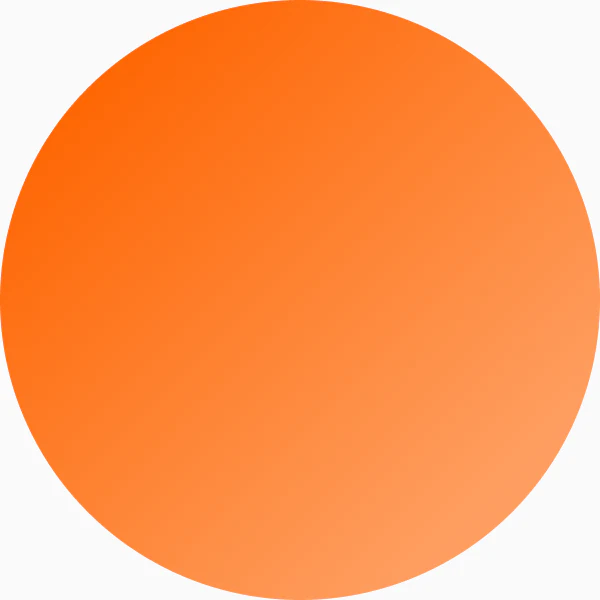
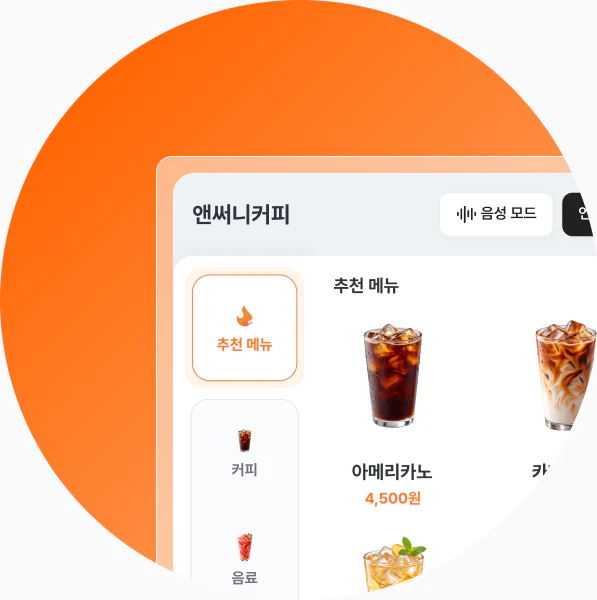
리스트 설명글을 시안대로 되돌린다 — 1번 항목에 5번 문구가 들어가 있었다
키오스크 썸네일이 주황 원에서 주문 화면 목업으로 바뀌어 다시 뽑았고,
디자인 토큰 태그 AI → AI 자동화, 인덱스 골프 태그 개인 작업 → 개인 스터디.
설명글은 1·2·3·5번이 시안과 달라 네 항목 모두 시안 문구로 맞췄다.

diff --git a/index.html b/index.html
@@ -79,8 +79,8 @@
             <div class="work-item__head">
               <h3 class="work-item__title"><a href="./case-ai-agent.html">AI 에이전트 단절된 작업 흐름 하나의 경험으로 재설계</a></h3>
             <p class="work-item__desc">
-              Base → Semantic 2-tier 컬러 토큰과 Variables 라이브러리 구축<br>
-              Design.md 단일 명세로 디자인·개발이 같은 문서를 참조하는 협업 기준 수립
+              AI 답변과 원문 근거를 연결해 응답 안에서 검증이 끝나는 구조 설계<br>
+              검증 포기율 73% 해소, GS인증 1등급으로 공공조달 요건 충족
             </p>
               <div class="work-item__tags">
                 <span class="chip chip--tag">LLM</span>
@@ -97,14 +97,15 @@
 
         <article class="work-item">
           <div class="work-item__thumb"><picture><source srcset="./assets/img/work/work-kiosk.webp?v=119" type="image/webp"><img
-            class="work-item__shot" src="./assets/img/work/work-kiosk.png?v=119" alt=""
-            loading="lazy" width="300" height="300" style="--x:27.704%;--y:10.938%;--w:44.444%;--h:78.125%"></picture></div>
+            class="work-item__shot" src="./assets/img/work/work-kiosk.png?v=119"
+            alt="앤써니커피 키오스크 주문 화면 — 음성 모드 버튼과 추천 메뉴 목록"
+            loading="lazy" width="298" height="300" style="--x:27.704%;--y:10.938%;--w:44.222%;--h:78.125%"></picture></div>
           <div class="work-item__body">
             <div class="work-item__head">
               <h3 class="work-item__title">키오스크의 터치 프로세스 사용성 개선</h3>
             <p class="work-item__desc">
-              고령자와 외국인이 화면을 읽지 않고 말로 주문하고 결제합니다.<br>
-              영남 방언과 고령자 발화를 반영하고 리빙랩 사용성 테스트로 검증했습니다.
+              고령자·외국인이 화면을 읽지 않고 말로 주문·결제하는 음성 프로세스 설계<br>
+              영남 방언·고령자 발화 반영, 리빙랩 사용성 테스트로 검증
             </p>
               <div class="work-item__tags">
                 <span class="chip chip--tag">STT</span>
@@ -125,11 +126,11 @@
             <div class="work-item__head">
               <h3 class="work-item__title"><a href="./case-golf.html">골프장 탐색·예약 경험 재설계</a></h3>
             <p class="work-item__desc">
-              여러 사람이 함께 가는 라운드의 조율과 정산이 늘 앱 밖에서 일어나는 문제를 다뤘습니다.<br>
-              모든 선택을 인당 총액이라는 하나의 축으로 환산하고 1/N·혼합 결제까지 안으로 넣었습니다.
+              앱 밖에서 일어나던 동반 라운드의 조율·정산 문제를 앱 안으로 통합<br>
+              모든 선택을 인당 총액 하나의 축으로 환산, 1/N·혼합 결제까지 내재화
             </p>
               <div class="work-item__tags">
-                <span class="chip chip--tag">개인 작업</span>
+                <span class="chip chip--tag">개인 스터디</span>
                 <span class="chip chip--tag">1/N 정산</span>
                 <span class="chip chip--tag">1인당 총액</span>
                 <span class="chip chip--tag">LLM</span>
@@ -169,12 +170,12 @@
             <div class="work-item__head">
               <h3 class="work-item__title"><a href="./case-design-token.html">반복 전달을 없앤 디자인 토큰 스타일 기준</a></h3>
             <p class="work-item__desc">
-              Base에서 Semantic으로 이어지는 2-tier 컬러 토큰과 Variables 라이브러리를 세웠습니다.<br>
-              design.md 단일 명세로 디자인과 개발이 같은 문서를 참조합니다.
+              Base → Semantic 2-tier 컬러 토큰과 Variables 라이브러리 구축<br>
+              Design.md 단일 명세로 디자인·개발이 같은 문서를 참조하는 협업 기준 수립
             </p>
               <div class="work-item__tags">
                 <span class="chip chip--tag">디자인 시스템</span>
-                <span class="chip chip--tag">AI</span>
+                <span class="chip chip--tag">AI 자동화</span>
                 <span class="chip chip--tag">Variables</span>
                 <span class="chip chip--tag">Design.md</span>
               </div>

diff --git a/work.html b/work.html
@@ -77,8 +77,8 @@
             <div class="work-item__head">
               <h2 class="work-item__title"><a href="./case-ai-agent.html">AI 에이전트 단절된 작업 흐름 하나의 경험으로 재설계</a></h2>
             <p class="work-item__desc">
-              Base → Semantic 2-tier 컬러 토큰과 Variables 라이브러리 구축<br>
-              Design.md 단일 명세로 디자인·개발이 같은 문서를 참조하는 협업 기준 수립
+              AI 답변과 원문 근거를 연결해 응답 안에서 검증이 끝나는 구조 설계<br>
+              검증 포기율 73% 해소, GS인증 1등급으로 공공조달 요건 충족
             </p>
               <div class="work-item__tags">
                 <span class="chip chip--tag">LLM</span>
@@ -95,14 +95,15 @@
 
         <article class="work-item">
           <div class="work-item__thumb"><picture><source srcset="./assets/img/work/work-kiosk.webp?v=119" type="image/webp"><img
-            class="work-item__shot" src="./assets/img/work/work-kiosk.png?v=119" alt=""
-            loading="lazy" width="300" height="300" style="--x:27.704%;--y:10.938%;--w:44.444%;--h:78.125%"></picture></div>
+            class="work-item__shot" src="./assets/img/work/work-kiosk.png?v=119"
+            alt="앤써니커피 키오스크 주문 화면 — 음성 모드 버튼과 추천 메뉴 목록"
+            loading="lazy" width="298" height="300" style="--x:27.704%;--y:10.938%;--w:44.222%;--h:78.125%"></picture></div>
           <div class="work-item__body">
             <div class="work-item__head">
               <h2 class="work-item__title">키오스크의 터치 프로세스 사용성 개선</h2>
             <p class="work-item__desc">
-              고령자와 외국인이 화면을 읽지 않고 말로 주문하고 결제합니다.<br>
-              영남 방언과 고령자 발화를 반영하고 리빙랩 사용성 테스트로 검증했습니다.
+              고령자·외국인이 화면을 읽지 않고 말로 주문·결제하는 음성 프로세스 설계<br>
+              영남 방언·고령자 발화 반영, 리빙랩 사용성 테스트로 검증
             </p>
               <div class="work-item__tags">
                 <span class="chip chip--tag">STT</span>
@@ -123,8 +124,8 @@
             <div class="work-item__head">
               <h2 class="work-item__title"><a href="./case-golf.html">골프장 탐색·예약 경험 재설계</a></h2>
             <p class="work-item__desc">
-              여러 사람이 함께 가는 라운드의 조율과 정산이 늘 앱 밖에서 일어나는 문제를 다뤘습니다.<br>
-              모든 선택을 인당 총액이라는 하나의 축으로 환산하고 1/N·혼합 결제까지 안으로 넣었습니다.
+              앱 밖에서 일어나던 동반 라운드의 조율·정산 문제를 앱 안으로 통합<br>
+              모든 선택을 인당 총액 하나의 축으로 환산, 1/N·혼합 결제까지 내재화
             </p>
               <div class="work-item__tags">
                 <span class="chip chip--tag">개인 스터디</span>
@@ -167,12 +168,12 @@
             <div class="work-item__head">
               <h2 class="work-item__title"><a href="./case-design-token.html">반복 전달을 없앤 디자인 토큰 스타일 기준</a></h2>
             <p class="work-item__desc">
-              Base에서 Semantic으로 이어지는 2-tier 컬러 토큰과 Variables 라이브러리를 세웠습니다.<br>
-              design.md 단일 명세로 디자인과 개발이 같은 문서를 참조합니다.
+              Base → Semantic 2-tier 컬러 토큰과 Variables 라이브러리 구축<br>
+              Design.md 단일 명세로 디자인·개발이 같은 문서를 참조하는 협업 기준 수립
             </p>
               <div class="work-item__tags">
                 <span class="chip chip--tag">디자인 시스템</span>
-                <span class="chip chip--tag">AI</span>
+                <span class="chip chip--tag">AI 자동화</span>
                 <span class="chip chip--tag">Variables</span>
                 <span class="chip chip--tag">Design.md</span>
               </div>
